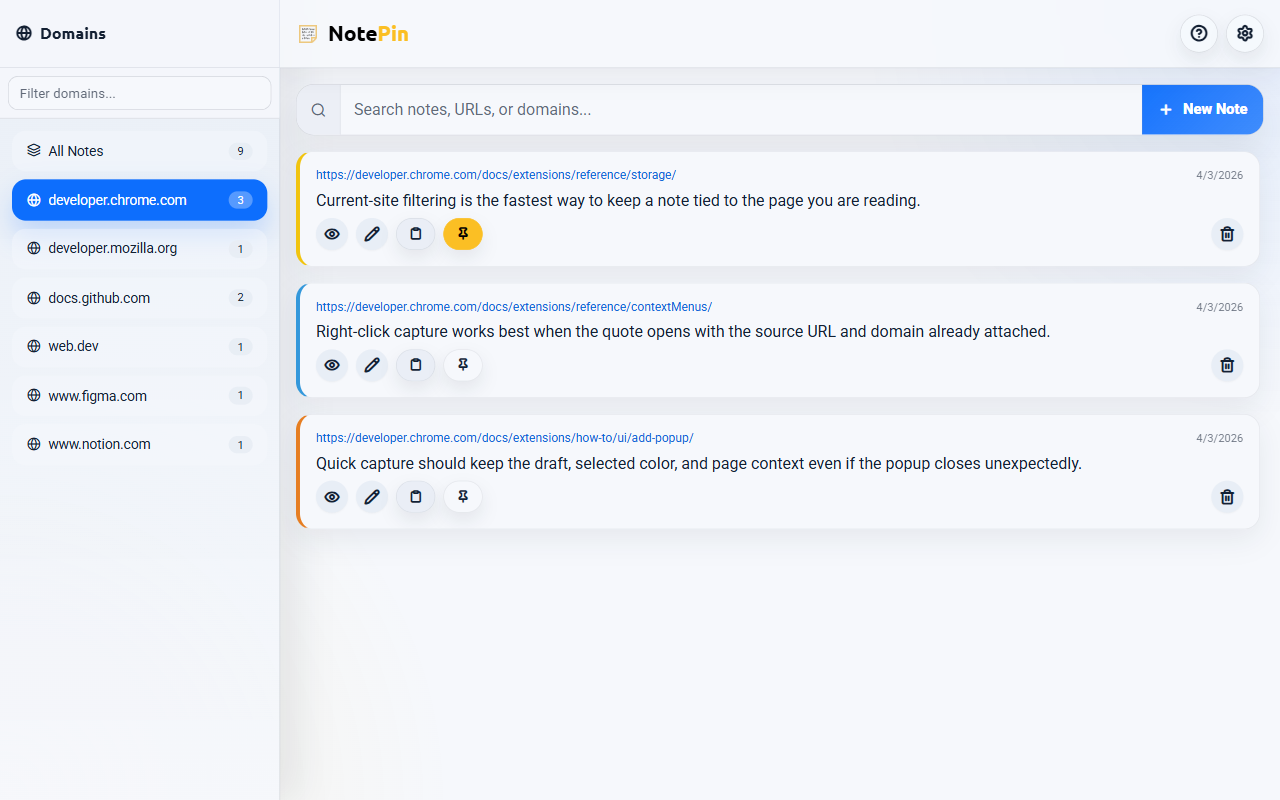
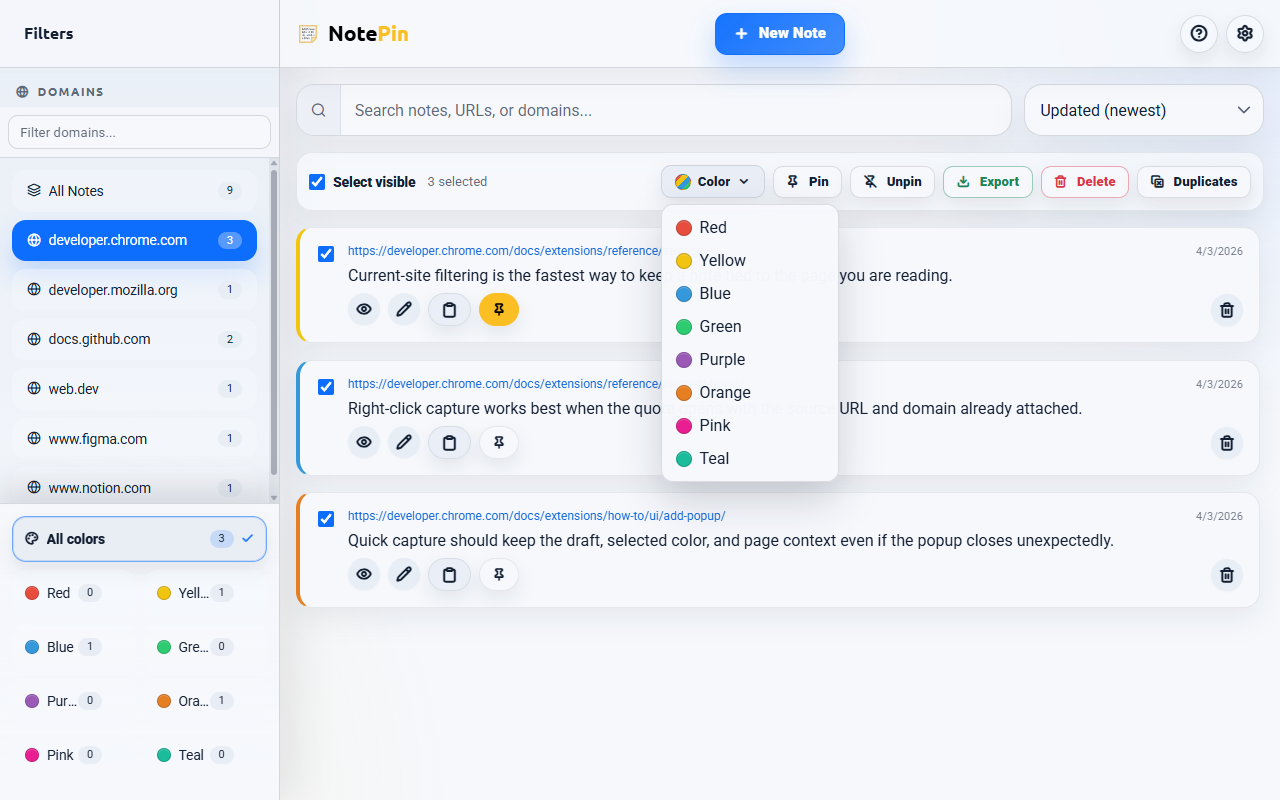
v1.0.15

diff --git a/index.html b/index.html
@@ -6,7 +6,7 @@
     <meta name="viewport" content="width=device-width, initial-scale=1.0">
     <title>NotePin - Save Notes for Any Web Page on Chrome and Edge</title>
     <meta name="description"
-        content="Capture selected text, save notes for any web page or URL, filter by domain, and manage everything in popup or fullscreen with browser-language support, privacy controls, and sync-safe storage on Chrome and Edge.">
+        content="Capture selected text, save notes for any web page or URL, show optional in-page sticky notes, and manage everything in popup or fullscreen with search, bulk actions, privacy controls, and sync-safe storage on Chrome and Edge.">
     <meta name="robots" content="index, follow">
     <meta name="author" content="FixQuotes">
     <meta name="theme-color" content="#0a0a0f">
@@ -18,7 +18,7 @@
     <meta property="og:site_name" content="NotePin">
     <meta property="og:title" content="NotePin - Save Notes for Any Web Page on Chrome and Edge">
     <meta property="og:description"
-        content="Capture selected text, save notes for any web page or URL, filter by domain, and manage everything in popup or fullscreen with browser-language support, privacy controls, and sync-safe storage on Chrome and Edge.">
+        content="Capture selected text, save notes for any web page or URL, show optional in-page sticky notes, and manage everything in popup or fullscreen with search, bulk actions, privacy controls, and sync-safe storage on Chrome and Edge.">
     <meta property="og:url" content="https://notepin.fixquotes.com">
     <meta property="og:image" content="https://notepin.fixquotes.com/img/popup_light_1280x800.png">
 
@@ -26,7 +26,7 @@
     <meta name="twitter:card" content="summary_large_image">
     <meta name="twitter:title" content="NotePin - Save Notes for Any Web Page on Chrome and Edge">
     <meta name="twitter:description"
-        content="Capture selected text, save notes for any web page or URL, filter by domain, and manage everything in popup or fullscreen with browser-language support, privacy controls, and sync-safe storage on Chrome and Edge.">
+        content="Capture selected text, save notes for any web page or URL, show optional in-page sticky notes, and manage everything in popup or fullscreen with search, bulk actions, privacy controls, and sync-safe storage on Chrome and Edge.">
     <meta name="twitter:image" content="https://notepin.fixquotes.com/img/popup_light_1280x800.png">
 
     <!-- Favicon -->
@@ -84,9 +84,10 @@
 
                 <p class="subtitle">
                     Select text on any website, send it to NotePin from the context menu, and save it as a note with
-                    the current page URL already attached. You can also save notes for any URL manually, then organize
-                    everything in a quick popup or fullscreen workspace with safe sync, privacy controls, and an
-                    interface that follows your browser language.
+                    the current page URL already attached. You can also save notes for any URL manually, surface them
+                    as optional in-page stickies, then organize everything in a quick popup or fullscreen workspace with
+                    search, bulk actions, safe sync, privacy controls, and an interface that follows your browser
+                    language.
                 </p>
 
                 <div class="cta-buttons">
@@ -105,11 +106,12 @@
                 <div class="supported-section">
                     <div class="supported-box">
                         <h4>📝 Capture &amp; Organize</h4>
-                        <p class="supported-copy">Select text on any page, save it through the context menu, and keep the current page URL attached automatically so every note stays tied to its source.</p>
+                        <p class="supported-copy">Select text on any page, save it through the context menu, and keep the current page URL attached automatically so every note can stay tied to its source or appear as an optional page sticky.</p>
                         <div class="format-tags">
                             <span class="format-tag">8 Colors</span>
                             <span class="format-tag">Context Menu Save</span>
                             <span class="format-tag">Current URL Saved</span>
+                            <span class="format-tag">Page Stickies</span>
                             <span class="format-tag">Manual URL Entry</span>
                         </div>
                     </div>
@@ -121,6 +123,7 @@
                             <span class="format-tag">Sync-Safe Saves</span>
                             <span class="format-tag">Language Support</span>
                             <span class="format-tag">Privacy Controls</span>
+                            <span class="format-tag">Bulk Actions</span>
                             <span class="format-tag">Export / Import</span>
                         </div>
                     </div>
@@ -135,7 +138,8 @@
                     <span class="section-badge">Preview</span>
                     <h2>See It in Action</h2>
                     <p class="section-desc">Select text on any website, send it to NotePin from the context menu, and keep the
-                        current page URL attached automatically before organizing everything in popup or fullscreen.</p>
+                        current page URL attached automatically before organizing everything in popup, fullscreen, or
+                        optional in-page stickies.</p>
                 </div>
 
                 <div class="screenshot-tabs">
@@ -239,6 +243,7 @@
                             <li>NotePin opens with the selected text already prefilled as the note</li>
                             <li>When you save, the note keeps the current page URL and domain automatically</li>
                             <li>You can still save notes for the current page or any URL you enter manually</li>
+                            <li>Optional in-page stickies show matching notes directly on supported websites</li>
                             <li>Toolbar badge shows how many notes exist for the current site</li>
                         </ul>
                     </div>
@@ -251,6 +256,7 @@
                             <li>8 note colors with matching form accents</li>
                             <li>Inline edit text, URL, and color without leaving the list</li>
                             <li>Pin or star important notes so they stay at the top</li>
+                            <li>Bulk color, pin, unpin, export, delete, and duplicate cleanup in fullscreen</li>
                             <li>Copy note text from any note card or from the view modal</li>
                             <li>Undo single-note deletes from a 5-second toast</li>
                         </ul>
@@ -261,8 +267,8 @@
                         <h3>Popup + Fullscreen Workflow</h3>
                         <p>Use a compact popup for quick capture or a fullscreen workspace when you need more control.</p>
                         <ul class="feature-list">
-                            <li>Popup tabs for All Notes, Current Site, and Search</li>
-                            <li>Fullscreen workspace with manual URL entry and bulk actions</li>
+                            <li>Search-first popup layout with a Current Site checkbox</li>
+                            <li>Fullscreen workspace with manual URL entry, domain/color filters, and bulk actions</li>
                             <li>6 sort options: Created, Updated, A–Z / Z–A</li>
                             <li>Domain sidebar with counts, expand/collapse all, and mobile drawer behavior</li>
                             <li>Fullscreen help icon opens an in-app FAQ with a one-click Feedback &amp; Issues button</li>
@@ -277,6 +283,7 @@
                         <ul class="feature-list">
                             <li>Search across note text, URL, and domain</li>
                             <li>Fullscreen domain filters include note counts and No Domain entries</li>
+                            <li>In-page sticky overlays include a compact search filter for larger note sets</li>
                             <li>Search no-results states echo the exact term you typed</li>
                             <li>Popup filter choice plus fullscreen search, sort, and domain state are remembered</li>
                         </ul>
@@ -290,6 +297,7 @@
                             <li>Chunked browser sync storage stays within quota limits</li>
                             <li>Revision-checked saves protect against popup/fullscreen write conflicts</li>
                             <li>Warning banner blocks writes when sync returns an incomplete snapshot</li>
+                            <li>Settings can still open with cached values when background sync is temporarily unavailable</li>
                             <li>Real-time refresh pulls in note changes from other extension views</li>
                             <li>JSON export/import supports backup and migration</li>
                         </ul>
@@ -348,8 +356,8 @@
                         <h4>More Features</h4>
                         <p>NotePin also includes 2,000-character notes with a live counter, auto-save drafts,
                             hover-friendly timestamps, automatic dark mode, inline copy buttons, browser-language UI
-                            support, smarter search empty states, and fullscreen domain filtering that can also group
-                            notes without a domain.</p>
+                            support, smarter search empty states, optional site stickies, and fullscreen domain or
+                            color filtering that can also group notes without a domain.</p>
                     </div>
                 </div>
             </div>

diff --git a/changelog.html b/changelog.html
@@ -63,6 +63,42 @@
         <h1>Changelog</h1>
         <p class="intro">All notable changes to NotePin are documented here.</p>
 
+        <!-- Version 1.0.15 -->
+        <div class="version-card">
+            <div class="version-header">
+                <span class="version-number">v1.0.15</span>
+                <span class="version-badge badge-initial">Update</span>
+                <span class="version-date">April 2026</span>
+            </div>
+
+            <div class="feature-category">
+                <h4>&#10024; Added</h4>
+                <ul>
+                    <li><strong>Fullscreen Bulk Workflows:</strong> The fullscreen board now supports selecting visible notes, applying colors, pinning or unpinning, exporting selected notes, deleting selected notes with undo, and cleaning duplicate notes</li>
+                    <li><strong>Smarter Page Stickies:</strong> In-page sticky notes now remember position and collapsed state per site, include a compact note filter, and let you hide the overlay for the current site temporarily</li>
+                    <li><strong>Local Preview Harness:</strong> Popup, fullscreen, welcome, and edit pages can now be inspected outside the extension runtime with a lightweight mocked <code>chrome.*</code> API</li>
+                </ul>
+            </div>
+
+            <div class="feature-category">
+                <h4>&#128260; Changed</h4>
+                <ul>
+                    <li><strong>More Resilient Settings:</strong> Settings now open immediately with cached values when the background runtime is unavailable, then show a warning instead of blocking the modal</li>
+                    <li><strong>Cleaner Fullscreen Onboarding:</strong> The first-run empty state now points to the fullscreen <strong>New Note</strong> button</li>
+                    <li><strong>Compact Bulk Color Picker:</strong> Bulk color actions now use a custom dropdown instead of an always-visible swatch row</li>
+                    <li><strong>Quieter Sticky Controls:</strong> Sticky search and hide-site controls stay hidden until the current site has at least five matching notes</li>
+                </ul>
+            </div>
+
+            <div class="feature-category">
+                <h4>&#128027; Fixes</h4>
+                <ul>
+                    <li><strong>Safer Undo Restore:</strong> Restoring deleted notes now skips IDs that already exist, avoiding duplicate notes after sync or race-condition restores</li>
+                    <li><strong>Documentation Sync:</strong> Popup documentation now matches the current search-first filter layout with the <strong>Current Site</strong> checkbox</li>
+                </ul>
+            </div>
+        </div>
+
         <!-- Version 1.0.14 -->
         <div class="version-card">
             <div class="version-header">
